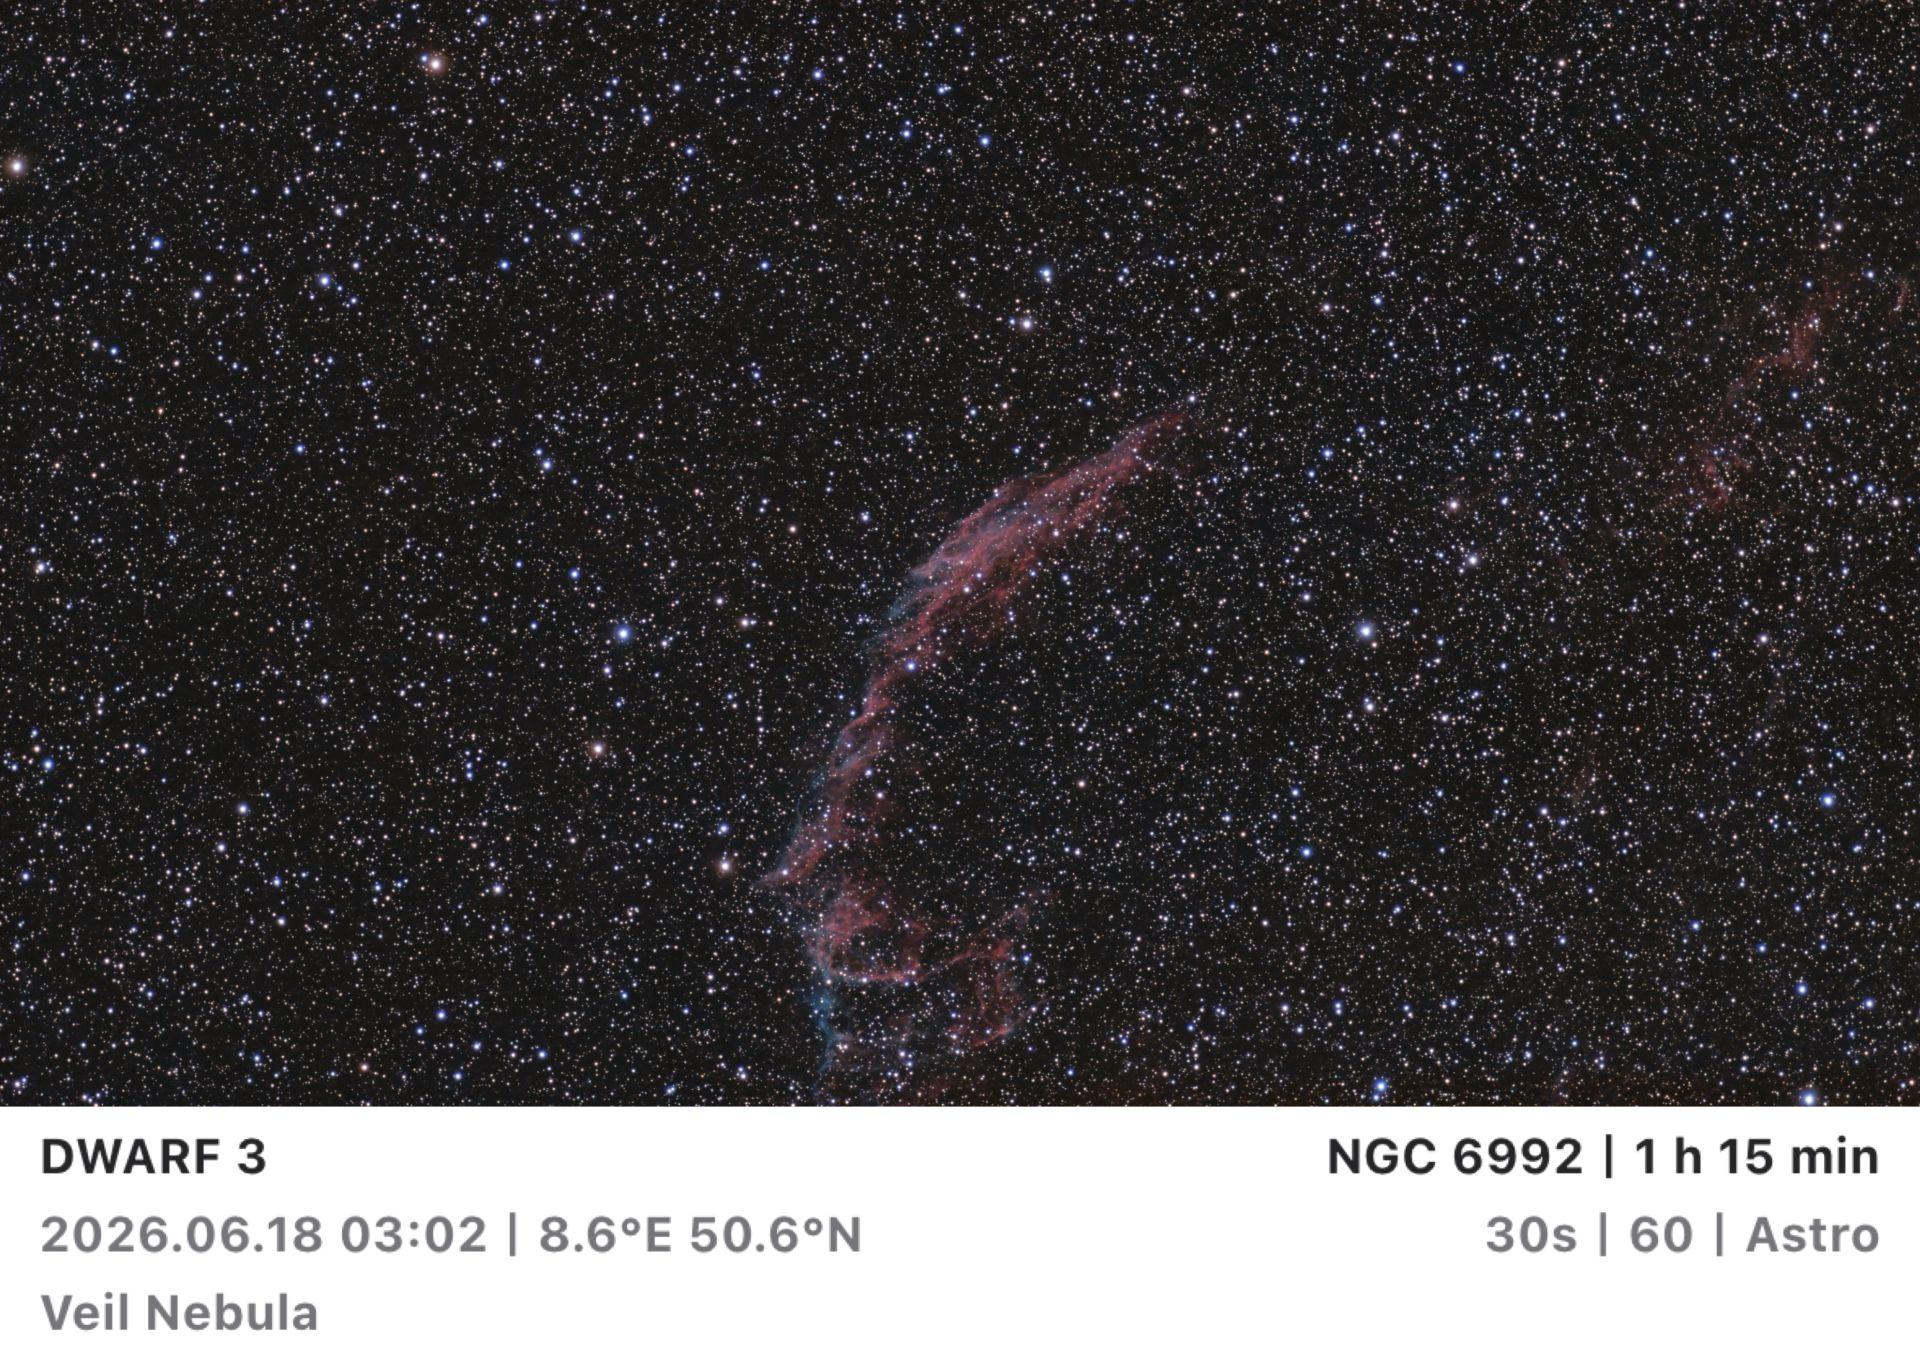
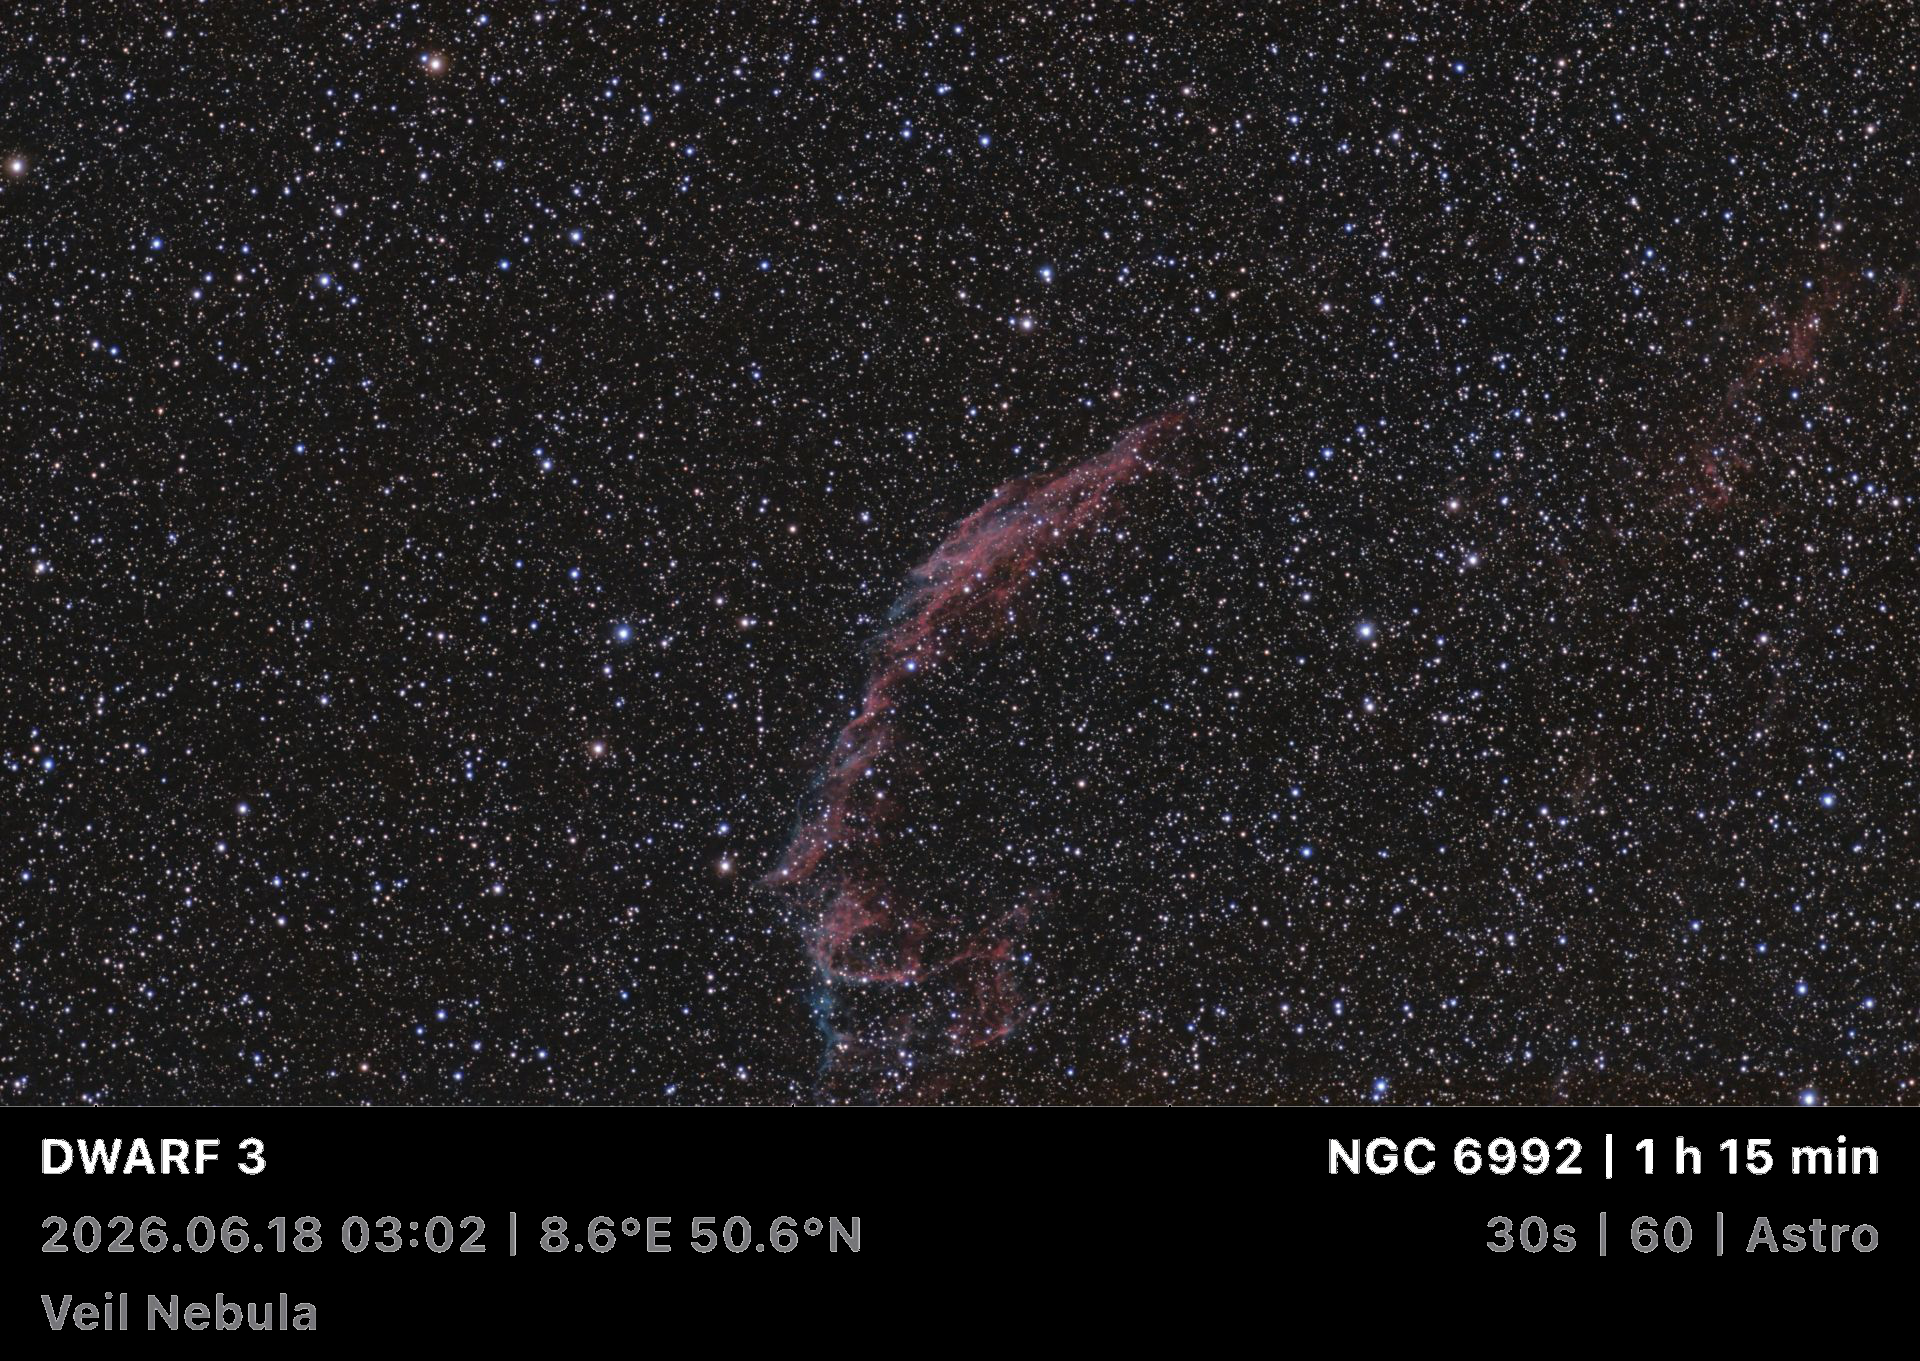
-

Changed region(s): [[0.0, 0.8024, 1.0, 1.0]]

diff --git a/html/script.js b/html/script.js
@@ -255,6 +255,46 @@ const galleryItems = [
     meta: "",
     desc_link: "https://de.wikipedia.org/wiki/Cirrusnebel",
     date: "2026-06-16"
+  },
+  {
+    id: 21,
+    title: "Andromeda Galaxy",
+    category: "galaxies",
+    src: "pics/M31_Andromeda-Galaxy_51m_Astro_2026-07-10.jpg",
+    description: "M31 - Die Andromedagalaxie ist mit rund 2,5 Mio. LJ Entfernung die am nächsten zur Milchstraße gelegene Spiralgalaxie. Sie ist zugleich das entfernteste Objekt, das unter guten Bedingungen ohne technische Hilfsmittel mit bloßem Auge beobachtet werden kann. Sie liegt im Sternbild Andromeda. Sie ist das größte Mitglied der Lokalen Gruppe, einer Ansammlung gravitativ gebundener Galaxien. Die Andromedagalaxie nähert sich mit einer Radialgeschwindigkeit von etwa 114 km/s und wird in 4 bis 10 Mrd. Jahren mit der Milchstraße kollidieren.",
+    meta: "",
+    desc_link: "https://de.wikipedia.org/wiki/Andromedagalaxie",
+    date: "2026-07-10"
+  },
+  {
+    id: 22,
+    title: "Milky Way Galaxy | Milchstraße",
+    category: "galaxies",
+    src: "pics/MilkyWay_2026-07-11.png",
+    description: "Die Milchstraße ist eine Balkenspiralgalaxie, die unser Sonnensystem enthält. Sie hat einen Durchmesser von etwa 100.000 Lichtjahren und eine Dicke von etwa 1.000 Lichtjahren. Die Milchstraße enthält zwischen 100 und 400 Milliarden Sterne.",
+    meta: "Sternbild Schwan",
+    desc_link: "https://de.wikipedia.org/wiki/Milchstraße",
+    date: "2026-07-11"
+  },
+  {
+    id: 23,
+    title: "Milky Way Galaxy | Milchstraße",
+    category: "galaxies",
+    src: "pics/MilkyWay-Adler_2026-07-11.png",
+    description: "Die Milchstraße ist eine Balkenspiralgalaxie, die unser Sonnensystem enthält. Sie hat einen Durchmesser von etwa 100.000 Lichtjahren und eine Dicke von etwa 1.000 Lichtjahren. Die Milchstraße enthält zwischen 100 und 400 Milliarden Sterne.",
+    meta: "Sternbild Adler (Aquila)",
+    desc_link: "https://de.wikipedia.org/wiki/Milchstraße",
+    date: "2026-07-11"
+  },
+  {
+    id: 24,
+    title: "Milky Way Galaxy | Milchstraße",
+    category: "galaxies",
+    src: "pics/MilkyWay-South_2026-07-11.png",
+    description: "Die Milchstraße ist eine Balkenspiralgalaxie, die unser Sonnensystem enthält. Sie hat einen Durchmesser von etwa 100.000 Lichtjahren und eine Dicke von etwa 1.000 Lichtjahren. Die Milchstraße enthält zwischen 100 und 400 Milliarden Sterne.",
+    meta: "Blick nach Süden, Richtung Sternbild Schütze (Sagittarius) und dem Zentrum der Milchstraße",
+    desc_link: "https://de.wikipedia.org/wiki/Milchstraße",
+    date: "2026-07-11"
   }
 ];
 

diff --git a/README.md b/README.md
@@ -65,11 +65,14 @@ Ladezeiten beobachten, optimieren:
 
 ### Slider
 
-Animated 3D Video
+3D Star Field Generator (Animated 3D Video)
 
 https://youtu.be/rWOcwRU11Fw
 
 https://zedastro.lovable.app/
+
+https://zedastro.lovable.app/star-field-generator
+
 
 NASA Picture of the Day ?
 